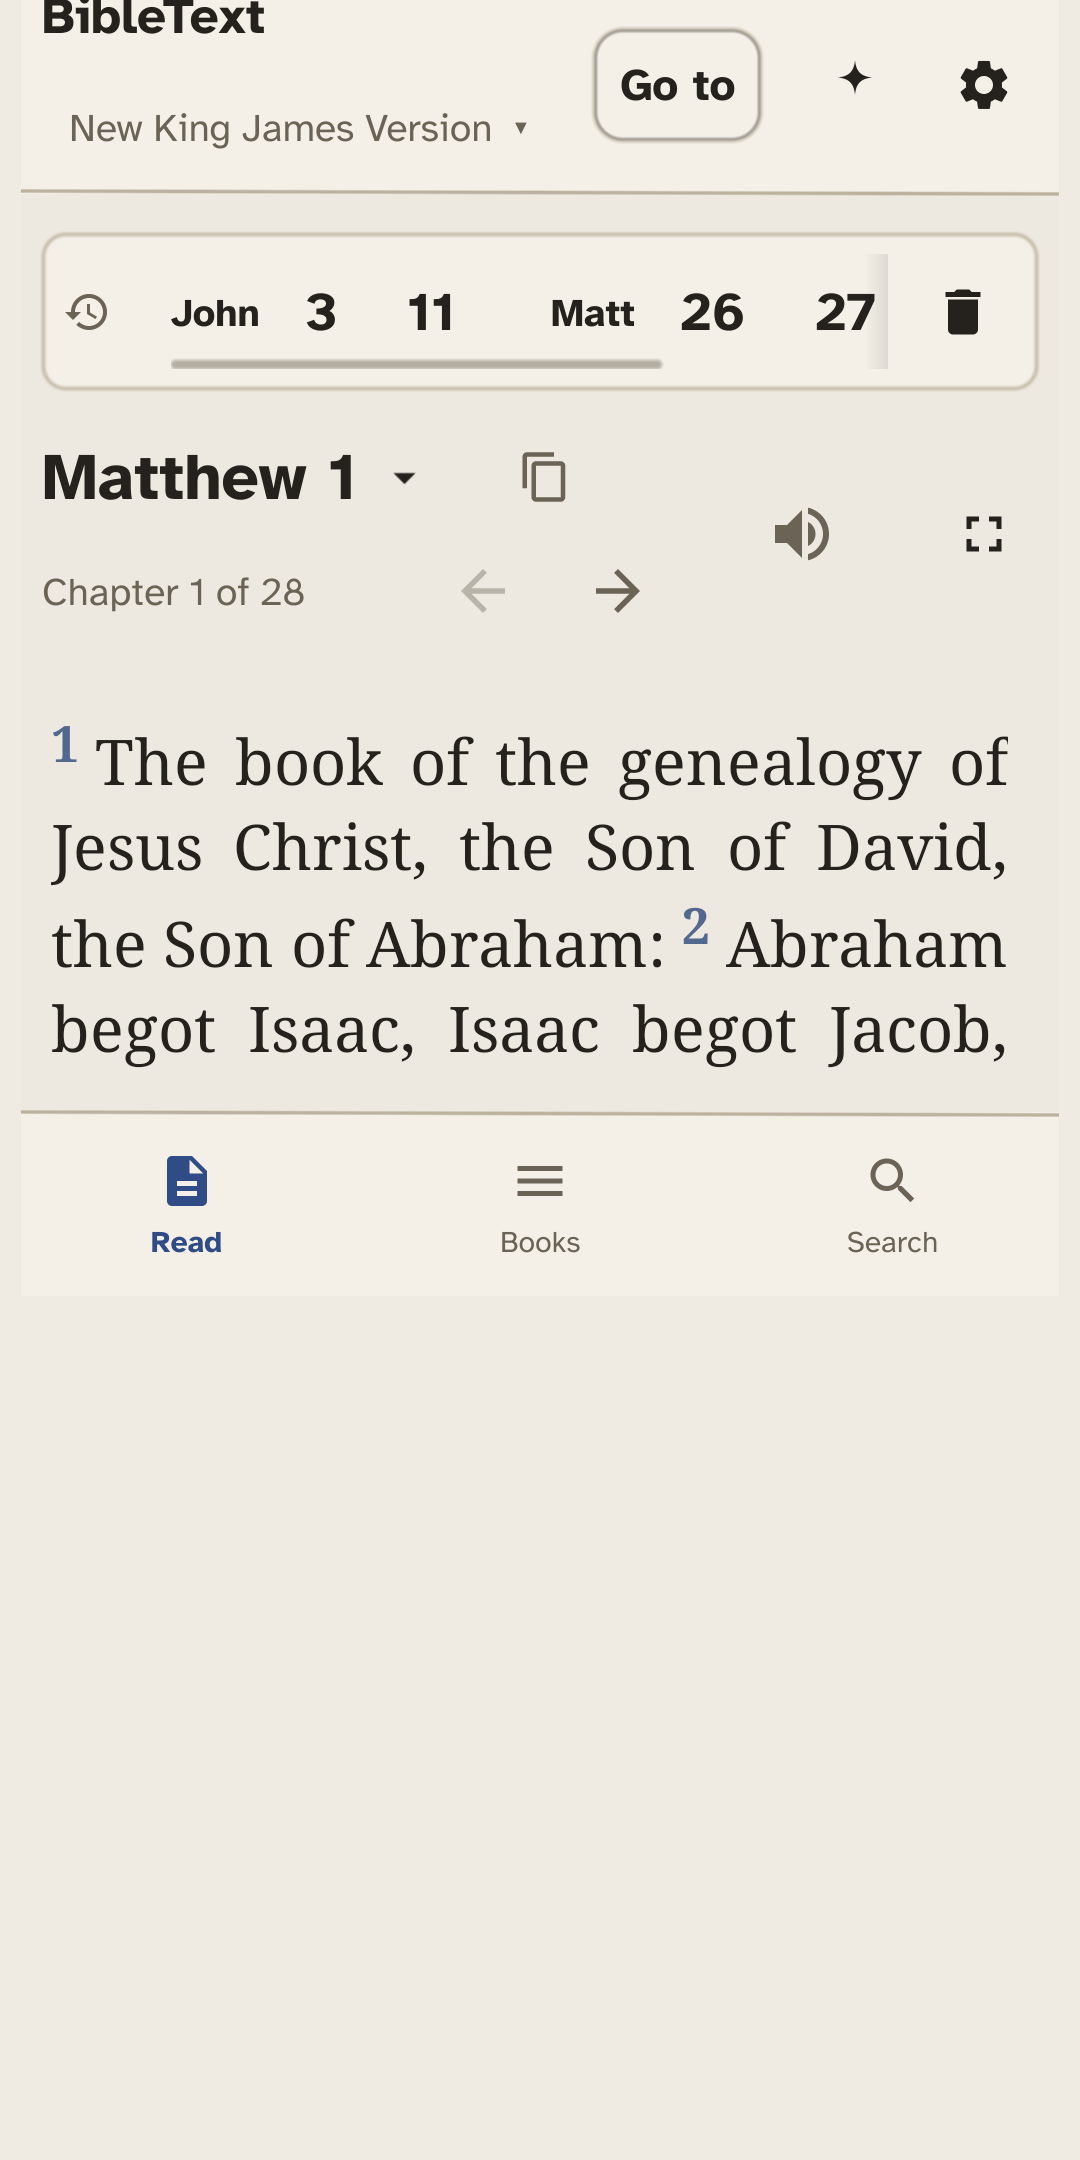
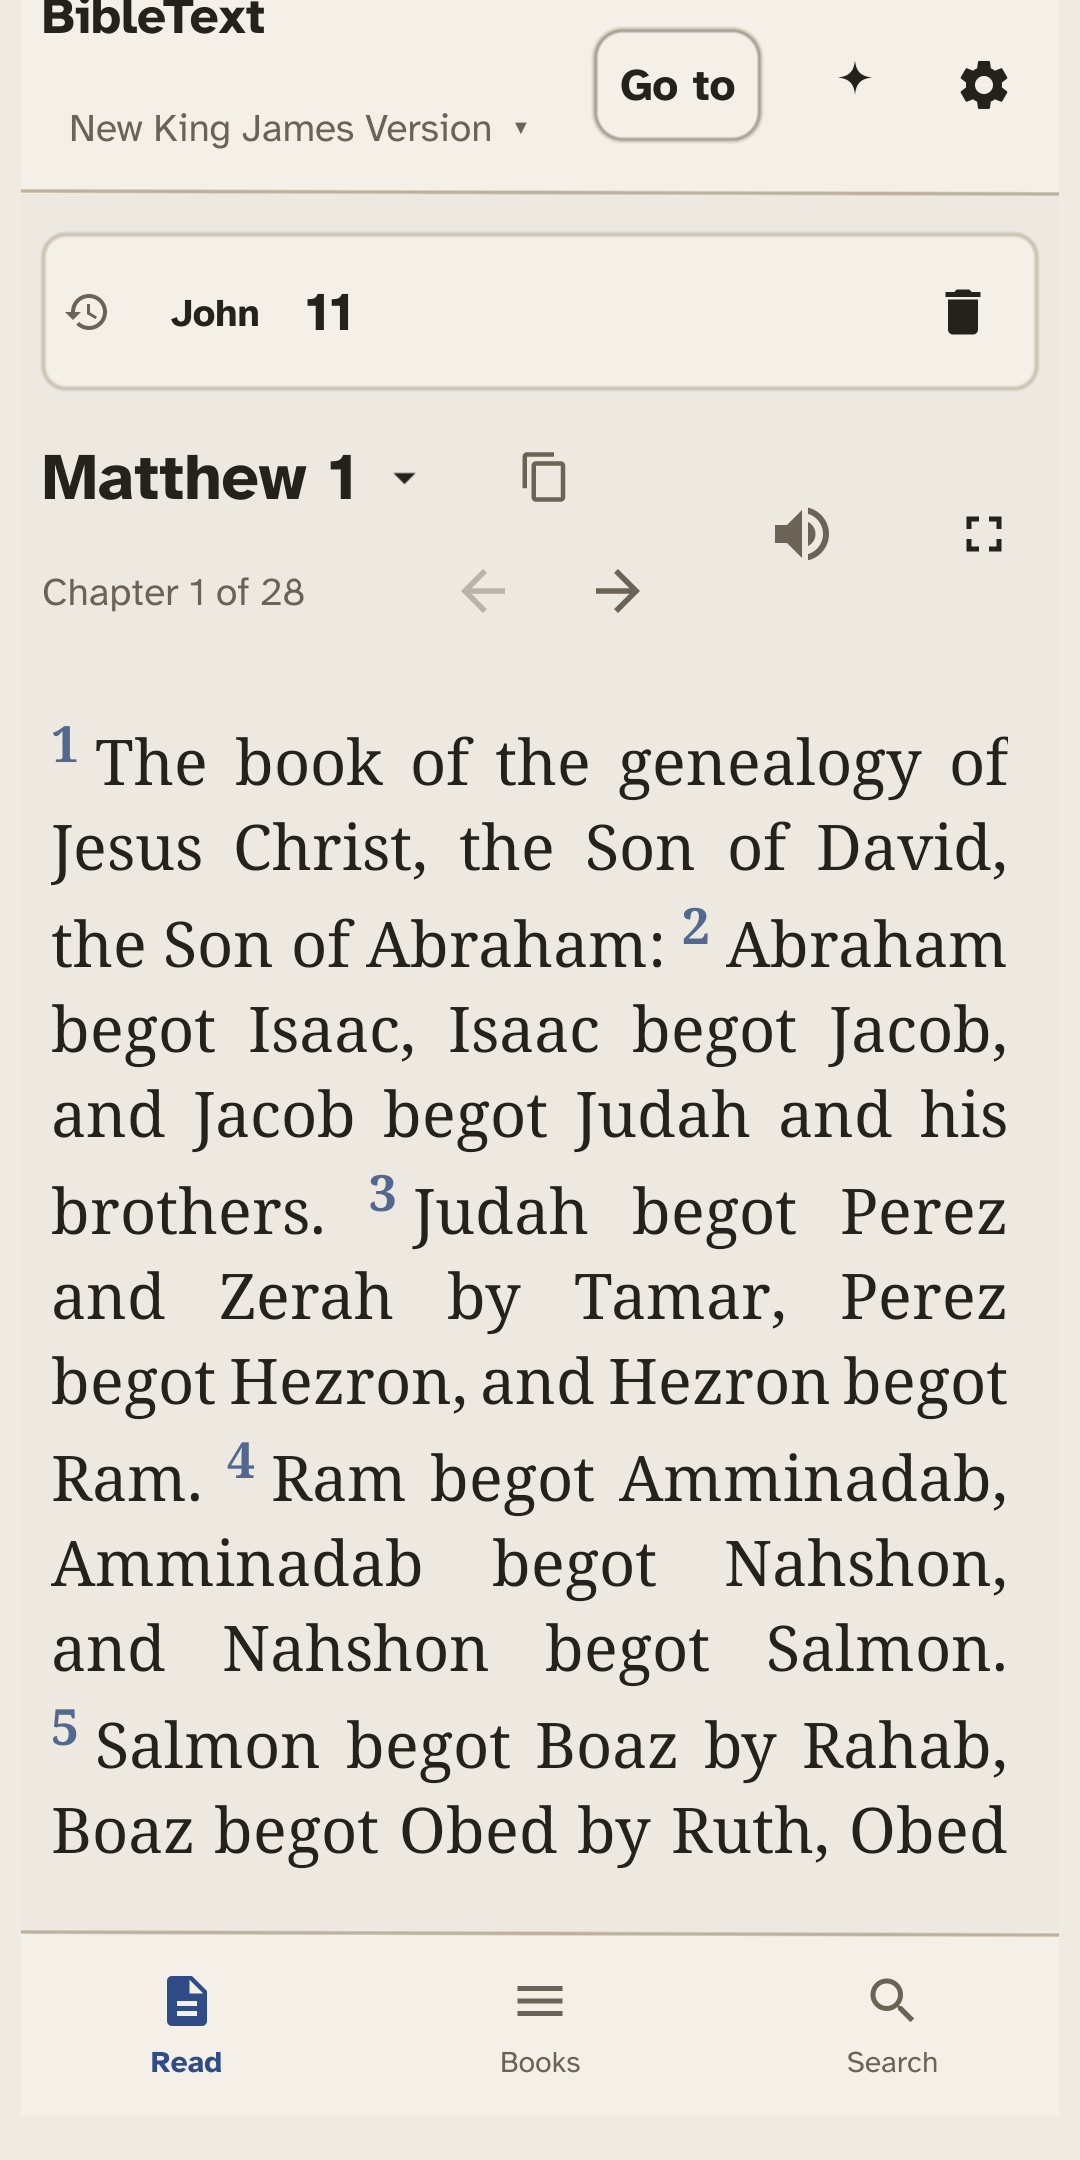
Seven of the eight iOS scenes, and a check that catches a bad capture
The remaining scenes are captured: the notes list with its three synthetic
messages, and a note open in the reading pane above the verse it anchors to.
Only Study with AI is missing, and it needs a provider key entered on the
device.

The reason two earlier images were wrong is worth keeping. Changing the system
theme while the app was running brought it back with its pane occupying the top
45% of the window, and the obvious check does not notice: asking whether
content reaches the bottom of the screen passes anyway, because the page
background is not the system background. play-shot-check.py asks whether there
is ink where the tab bar belongs, which is the question that distinguishes the
two - and it failed two images already committed here as fine.

So the capture recipe is now part of the document: boot fresh, set the
appearance before the app starts, and gate every frame.

diff --git a/scripts/play-shot-check.py b/scripts/play-shot-check.py
@@ -1,0 +1,38 @@
+"""Screenshot helpers for the Play capture run.
+
+The layout check exists because the earlier run produced images that LOOKED
+fine to a naive check: the app came back from a theme change with its pane
+occupying the top ~45% of the window, and a "does content reach the bottom"
+test passed anyway because the page background is not the same colour as the
+system background. So the test here is specific - is there real content in the
+bottom band, where the tab bar must be - and it is run before every capture.
+"""
+import subprocess, sys
+from PIL import Image
+
+E = "emulator-5554"
+
+def sh(*args):
+    return subprocess.run(["adb", "-s", E, *args], capture_output=True, text=True).stdout
+
+def grab(path):
+    with open(path, "wb") as f:
+        f.write(subprocess.run(["adb", "-s", E, "exec-out", "screencap", "-p"],
+                               capture_output=True).stdout)
+    return path
+
+def laid_out(path):
+    """True when the tab bar is where it belongs: real content in the bottom band."""
+    im = Image.open(path).convert("RGB")
+    w, h = im.size
+    px = im.load()
+    bg = px[w // 2, h - 12]                      # system background under the app
+    band = range(int(h * 0.90), int(h * 0.97))   # where Read/Books/Search sit
+    ink = sum(1 for y in band for x in range(0, w, 12)
+              if sum(abs(a - b) for a, b in zip(px[x, y], bg)) > 45)
+    return ink > 40, ink
+
+if __name__ == "__main__":
+    p = grab(sys.argv[1] if len(sys.argv) > 1 else "/tmp/probe.png")
+    ok, ink = laid_out(p)
+    print(f"  laid out: {ok} (ink in the tab-bar band: {ink})")

diff --git a/docs/PLAY_LISTING.md b/docs/PLAY_LISTING.md
@@ -110,6 +110,15 @@ final image visually and with OCR, and meet Play's current aspect-ratio and pixe
 requirements. Do not overwrite the old assets in place until the new set has
 been reviewed side by side.
 
+**Capture on a freshly booted emulator, and set the appearance BEFORE the app
+starts.** Changing the system theme while it is running brought it back with
+its pane occupying the top ~45% of the window - readable, and useless as a
+store image. Worse, it is invisible to the obvious check: "does content reach
+the bottom of the screen" passes anyway, because the page background is not
+the system background. `scripts/play-shot-check.py` asks the specific question
+instead - is there ink where the tab bar belongs - and it caught two images
+that had already been committed as fine.
+
 **A candidate set for 1.2.5 is in `play-assets/2026-09-1.2.5/`**, captured from
 the release APK (versionCode 176) on a Pixel 7 emulator: reading with red
 letters, search results, the grouped Books list, the same passage in the NKJV
